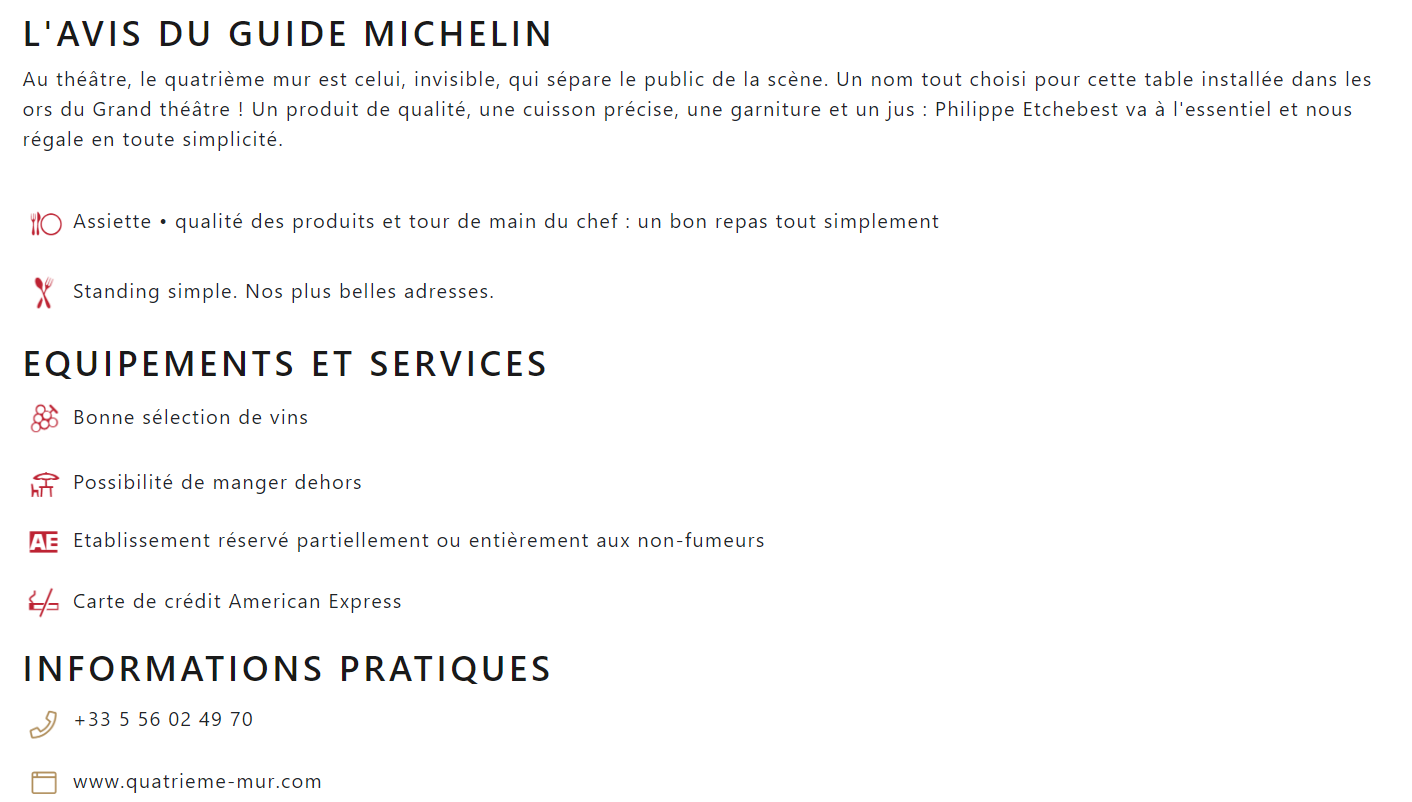
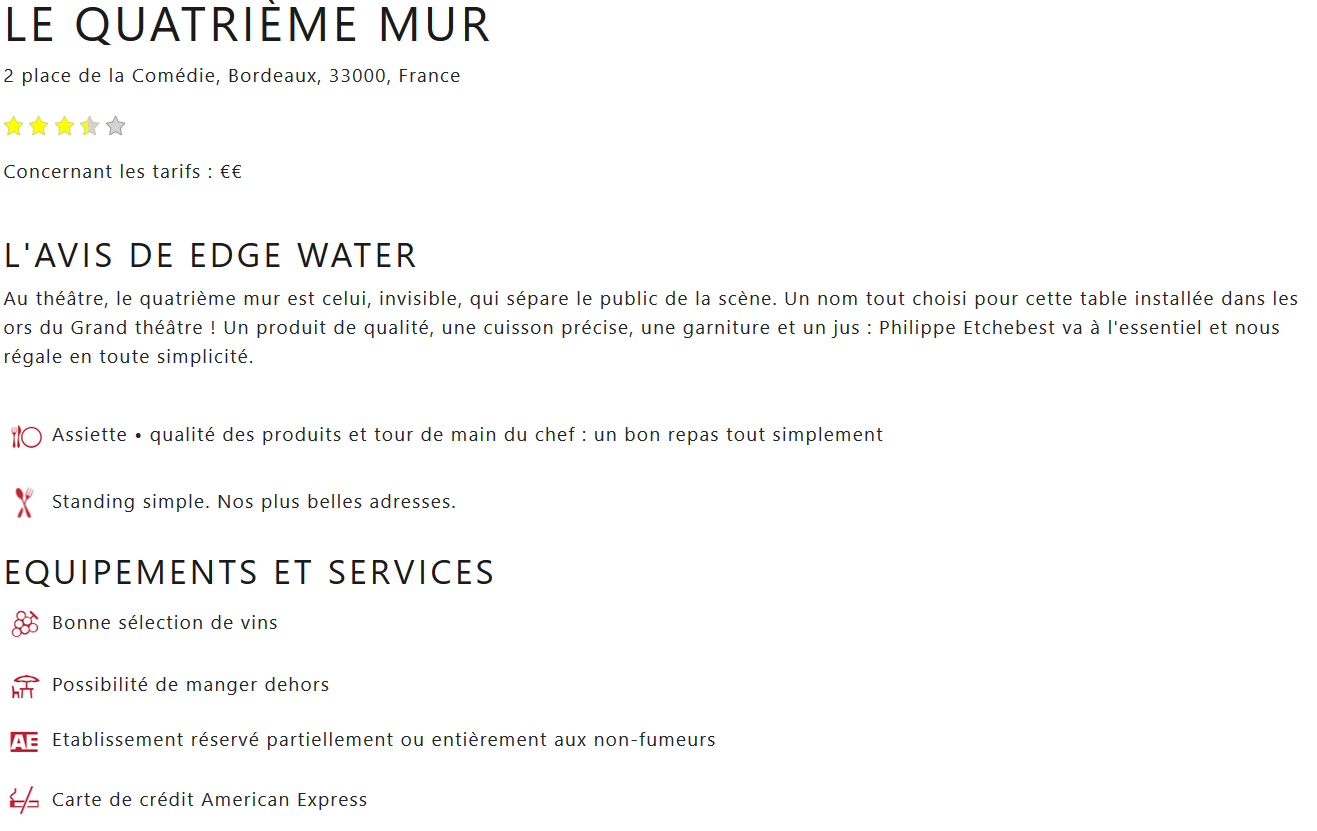
Edge Water - 0.1.7 - Update article.png & Article

diff --git a/resources/views/selections/showlequatriememur.blade.php b/resources/views/selections/showlequatriememur.blade.php
@@ -81,7 +81,7 @@
         <div>
         <p>Concernant les tarifs : €€</p>
         <br>
-        <h3>L'avis du Guide MICHELIN</h3>
+        <h3>L'avis de Edge Water</h3>
         <p>Au théâtre, le quatrième mur est celui, invisible,
             qui sépare le public de la scène. Un nom tout choisi
             pour cette table installée dans les ors du Grand théâtre !
